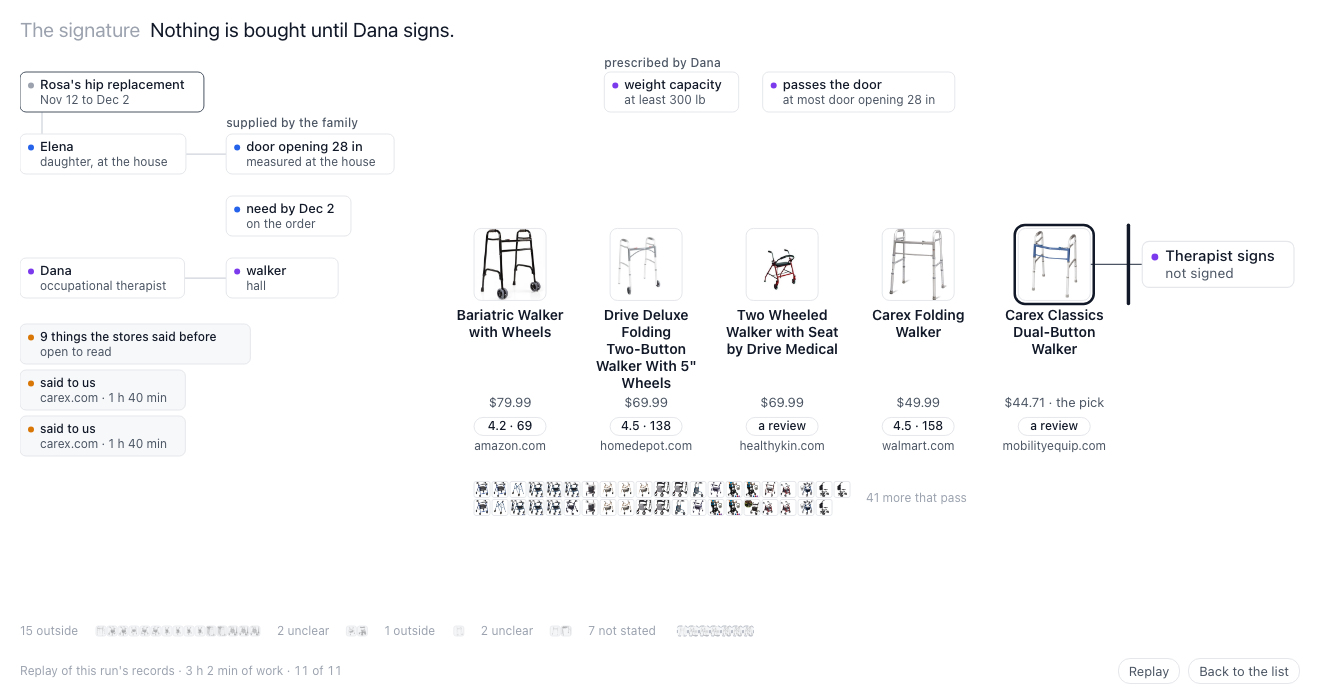
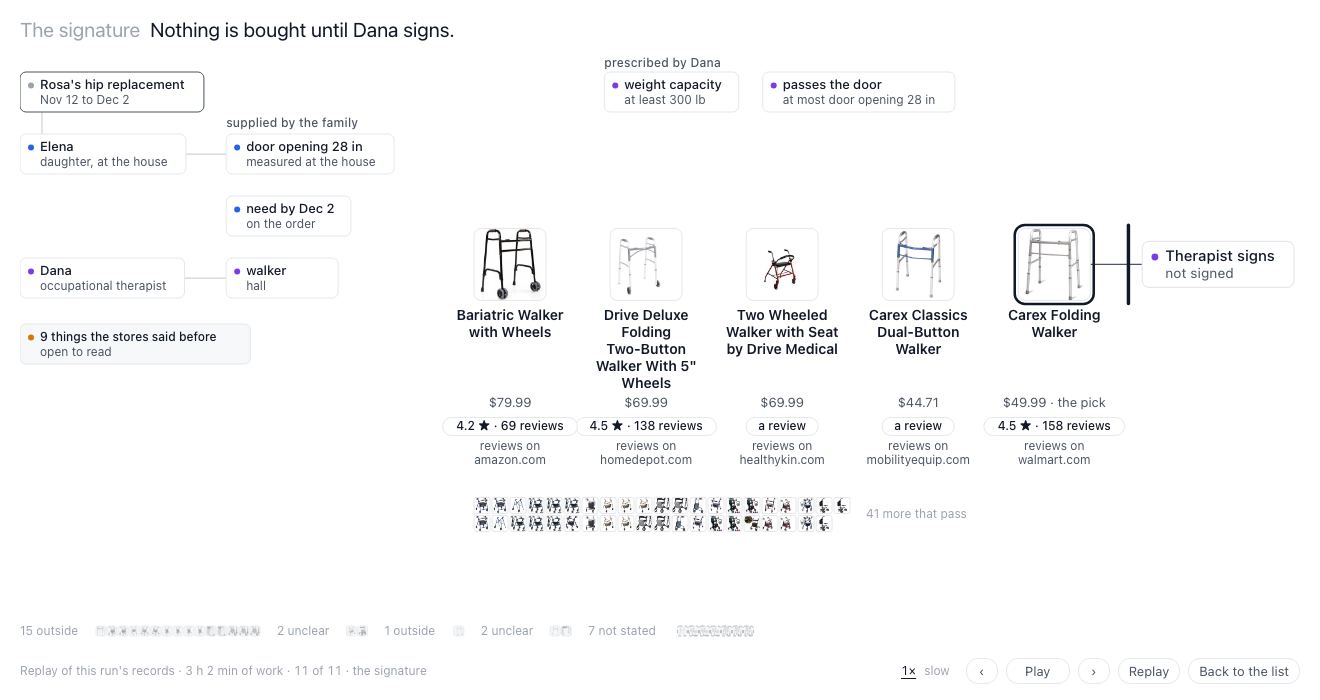
GRAPH: pacing and controls note; frames of the rule's third beat and the last frame

diff --git a/NOTES/INTEGRATOR.md b/NOTES/INTEGRATOR.md
@@ -2701,3 +2701,13 @@ a remembered measurement on the shelf seen only in code (the shopper's slot is e
 - DONE: nothing in the replay is cut. Every card is as wide as its measured text ("at most door opening 28 in", "occupational therapist", "Equipment in place before she arrives" in full); the survivors' names wrap to as many lines as they need under the photo, then price, rating and the site in full ("mobilityequip.com"); the withheld parts at the guard are whole or counted ("+2"), never clipped; the web row shows photos, ratings and sites (names wait for the ranking). Five survivors fit across the 1320 frame: `web/graph/shots/embed-last.png`. Full page: `web/graph/shots/explore-2.png`, `explore-9.png`, `explore-11.png`.
 - To give the canvas the width for this, the full page's side panel now opens over the canvas (click a node, or the "Answer: Cognee" pill) instead of sitting beside it.
 - If the records cannot be read (it happened for a moment while main restarted), the canvas says so instead of staying blank.
+
+## GRAPH 15:52 — pacing, pause, speed (your 15:48) and the walk review's replay items (your 15:53); web files only
+- Timing: one table in `web/graph/explore.js` (`HOLD`, ms at 1×): event 1500, order 1500, known 2000, search 4000, reading 2500, each rule 5000, asking 4000, web 2500, ranking 2500; the last stage holds. About 31 s at 1× for the walker. Beats (`BEAT`): a store's photos arrive in a quick run, one store after another (counted in the page at 0.6 / 1.6 / 2.6 s into the search: 15, 34, 63 of 73 shown); a rule lights, its lines appear at 0.7 s, the failing ones move aside together from 2.3 s while the caption counts ("At least 300 lb: 0 … 17 set aside, 56 left."); the withheld parts land on the guard line one after another.
+- Controls in the frame: ‹ Pause/Play › beside Skip; space toggles, arrows step. Paused, the clock stops: the caption stays and nothing moves; Play goes on from where it stopped. A step lands on the finished stage at once.
+- Speed: "1×" and "slow" (half speed), quiet, bottom right; `&speed=slow` selects it; nothing is remembered.
+- Label: "Replay of this run's records · 3 h 2 min of work · 6 of 11 · the rules".
+- Rating chips: only the parts the record has ("4.5 ★ · 158 reviews", "4.8 ★", or "a review"); under it "reviews on walmart.com", or "on the seller's own page" when the site is the product's own store. Names are in full on two or more lines (done at 15:43).
+- Frames: `web/graph/shots/embed-rule-beat3.png` (the third beat), `web/graph/shots/embed-last.png`.
+- NOT done (it is in `signoff/graph/build.py`, not web): the rule's sub "at most tub inside 21.5 in" should read "at most 21.5 in". One line when a server change is allowed.
+- Not seen by eye: the motion itself in a real browser; I checked it by page state and stills in headless Chrome at both speeds.
